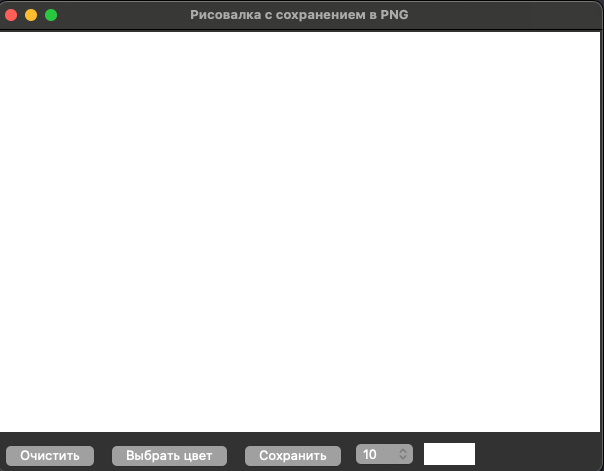
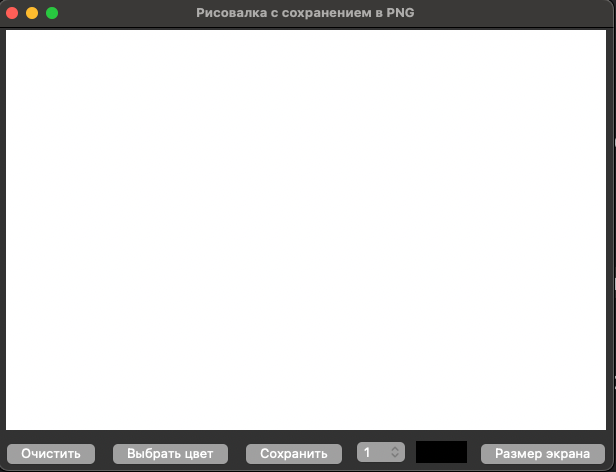
completed

Changed region(s): [[0.0, 0.0, 1.0, 1.0]]

diff --git a/main.py b/main.py
@@ -1,5 +1,6 @@
 import tkinter as tk
 from tkinter import colorchooser, filedialog, messagebox
+
 from PIL import Image, ImageDraw
 
 
@@ -59,6 +60,10 @@ class DrawingApp:
         # Индикатор текущего цвета
         self.current_color_indicator = tk.Label(control_frame, width=5, height=1, bg=self.pen_color)
         self.current_color_indicator.grid(row=0, column=4, padx=5, pady=5)
+
+        # кнопка "именить размер окна"
+        size_canvas = tk.Button(control_frame, text="Размер экрана", command=self.set_size_window)
+        size_canvas.grid(row=0, column=5, padx=5, pady=5)
 
     def paint(self, event):
         if self.last_x and self.last_y:
@@ -122,6 +127,55 @@ class DrawingApp:
         Обновляет индикатор текущего цвета.
         """
         self.current_color_indicator.config(bg=self.pen_color)
+
+    def set_size_window(self):
+        # Создаем диалоговое окно
+        dialog = tk.Toplevel(self.root)
+        dialog.title("Изменить размер")
+        dialog.geometry("300x250")
+
+        # Метка и поле ввода для ширины
+        label_width = tk.Label(dialog, text="Ширина:")
+        label_width.pack(pady=5)
+        self.entry_width = tk.Entry(dialog)
+        self.entry_width.pack(pady=5)
+
+        # Метка и поле ввода для высоты
+        label_height = tk.Label(dialog, text="Высота:")
+        label_height.pack(pady=5)
+        self.entry_height = tk.Entry(dialog)
+        self.entry_height.pack(pady=5)
+
+        # Кнопка "Применить"
+        apply_button = tk.Button(dialog, text="Применить", command=self.apply_size)
+        apply_button.pack(pady=10)
+
+        # Кнопка "Закрыть"
+        close_button = tk.Button(dialog, text="Закрыть", command=dialog.destroy)
+        close_button.pack(pady=5)
+
+    def apply_size(self):
+        # Получаем значения ширины и высоты из полей ввода
+        width = self.entry_width.get()
+        height = self.entry_height.get()
+
+        # Проверяем, что введены числа и они больше нуля
+        if width.isdigit() and height.isdigit() and int(width) > 0 and int(height) > 0:
+            width = int(width)
+            height = int(height)
+
+            # Обновляем размеры холста
+            self.canvas_width = width
+            self.canvas_height = height
+
+            # Очищаем холст и создаем новое изображение
+            self.canvas.config(width=width, height=height)  # Обновляем размеры существующего Canvas
+            self.image = Image.new("RGB", (width, height), "white")
+            self.draw = ImageDraw.Draw(self.image)
+            self.clear_canvas()  # Очищаем холст
+        else:
+            # Выводим сообщение об ошибке, если введены некорректные данные
+            messagebox.showerror("Ошибка", "Ширина и высота должны быть положительными числами!")
 
 
 def main():

diff --git a/readme.md b/readme.md
@@ -14,6 +14,7 @@
 - **Выбор цвета кисти**: Используйте правую кнопку мыши(на виндовс) и ctrl + левая кнопк(macOs) для выбора цвета кисти.
 - **Клавиши быстрого действия**: Используйте  ctrl + "с" для выбора цвета кисти, и ctrl + "s" чтобы сохранить текущее изображение в формате PNG.
 - **Очистка холста**: Нажмите кнопку "Очистить", чтобы стереть все нарисованное.
+- **Изменение размера окна**: Нажмите на кнопку после откроется окно для ввода размеров
 - **Сохранение изображения**: Нажмите кнопку "Сохранить", чтобы сохранить текущее изображение в формате PNG.
 
 ## Установка и запуск
@@ -54,7 +55,16 @@
 6. **Очистка холста**:
    - Нажмите кнопку "Очистить", чтобы стереть все нарисованное.
 
-7. **Сохранение изображения**:
+7. **Изменение размера окна**:
+   - Нажмите на кнопку после откроется окно для ввода размеров 
+
+<br>
+   
+   - ![img_2.png](img_2.png)
+
+   <br>
+
+8. **Сохранение изображения**:
    - Нажмите кнопку "Сохранить", чтобы сохранить текущее изображение в формате PNG.
 
 ## Структура проекта
